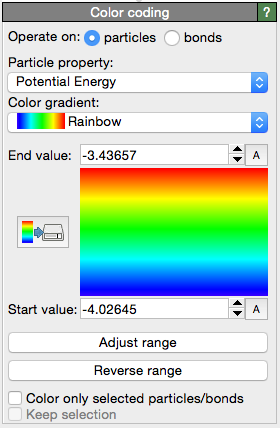
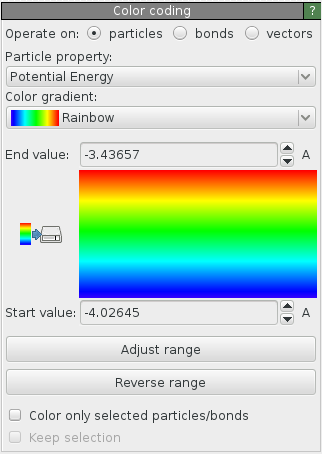
Extended the Color Coding modifier to support the coloring of vector arrows (in addition to particles and bonds).

diff --git a/src/plugins/particles/modifier/coloring/ColorCodingModifier.cpp b/src/plugins/particles/modifier/coloring/ColorCodingModifier.cpp
@@ -39,7 +39,7 @@ DEFINE_PROPERTY_FIELD(ColorCodingModifier, _colorOnlySelected, "SelectedOnly");
 DEFINE_PROPERTY_FIELD(ColorCodingModifier, _keepSelection, "KeepSelection");
 DEFINE_PROPERTY_FIELD(ColorCodingModifier, _sourceParticleProperty, "SourceProperty");
 DEFINE_PROPERTY_FIELD(ColorCodingModifier, _sourceBondProperty, "SourceBondProperty");
-DEFINE_PROPERTY_FIELD(ColorCodingModifier, _operateOnBonds, "OperateOnBonds");
+DEFINE_PROPERTY_FIELD(ColorCodingModifier, _colorApplicationMode, "ColorApplicationMode");
 SET_PROPERTY_FIELD_LABEL(ColorCodingModifier, _startValueCtrl, "Start value");
 SET_PROPERTY_FIELD_LABEL(ColorCodingModifier, _endValueCtrl, "End value");
 SET_PROPERTY_FIELD_LABEL(ColorCodingModifier, _colorGradient, "Color gradient");
@@ -47,7 +47,7 @@ SET_PROPERTY_FIELD_LABEL(ColorCodingModifier, _colorOnlySelected, "Color only se
 SET_PROPERTY_FIELD_LABEL(ColorCodingModifier, _keepSelection, "Keep selection");
 SET_PROPERTY_FIELD_LABEL(ColorCodingModifier, _sourceParticleProperty, "Source property");
 SET_PROPERTY_FIELD_LABEL(ColorCodingModifier, _sourceBondProperty, "Source property");
-SET_PROPERTY_FIELD_LABEL(ColorCodingModifier, _operateOnBonds, "Operate on bonds");
+SET_PROPERTY_FIELD_LABEL(ColorCodingModifier, _colorApplicationMode, "Target");
 
 IMPLEMENT_SERIALIZABLE_OVITO_OBJECT(Particles, ColorCodingGradient, RefTarget);
 IMPLEMENT_SERIALIZABLE_OVITO_OBJECT(Particles, ColorCodingHSVGradient, ColorCodingGradient);
@@ -64,7 +64,7 @@ DEFINE_PROPERTY_FIELD(ColorCodingImageGradient, _image, "Image");
 * Constructs the modifier object.
 ******************************************************************************/
 ColorCodingModifier::ColorCodingModifier(DataSet* dataset) : ParticleModifier(dataset),
-	_colorOnlySelected(false), _keepSelection(false), _operateOnBonds(false)
+	_colorOnlySelected(false), _keepSelection(false), _colorApplicationMode(Particles)
 {
 	INIT_PROPERTY_FIELD(ColorCodingModifier::_startValueCtrl);
 	INIT_PROPERTY_FIELD(ColorCodingModifier::_endValueCtrl);
@@ -73,7 +73,7 @@ ColorCodingModifier::ColorCodingModifier(DataSet* dataset) : ParticleModifier(da
 	INIT_PROPERTY_FIELD(ColorCodingModifier::_keepSelection);
 	INIT_PROPERTY_FIELD(ColorCodingModifier::_sourceParticleProperty);
 	INIT_PROPERTY_FIELD(ColorCodingModifier::_sourceBondProperty);
-	INIT_PROPERTY_FIELD(ColorCodingModifier::_operateOnBonds);
+	INIT_PROPERTY_FIELD(ColorCodingModifier::_colorApplicationMode);
 
 	_colorGradient = new ColorCodingHSVGradient(dataset);
 	_startValueCtrl = ControllerManager::instance().createFloatController(dataset);
@@ -168,7 +168,7 @@ PipelineStatus ColorCodingModifier::modifyParticles(TimePoint time, TimeInterval
 	PropertyBase* colorProperty;
 	DataObject* selectionPropertyObj = nullptr;
 	int vecComponent;
-	if(!operateOnBonds()) {
+	if(colorApplicationMode() != ColorCodingModifier::Bonds) {
 		if(sourceParticleProperty().isNull())
 			throwException(tr("Select a particle property first."));
 		ParticlePropertyObject* propertyObj = sourceParticleProperty().findInState(input());
@@ -188,7 +188,11 @@ PipelineStatus ColorCodingModifier::modifyParticles(TimePoint time, TimeInterval
 		}
 
 		// Create the color output property.
-		ParticlePropertyObject* colorPropertyObj = outputStandardProperty(ParticleProperty::ColorProperty);
+		ParticlePropertyObject* colorPropertyObj;
+		if(colorApplicationMode() == Particles)
+			colorPropertyObj = outputStandardProperty(ParticleProperty::ColorProperty);
+		else
+			colorPropertyObj = outputStandardProperty(ParticleProperty::VectorColorProperty);
 		colorProperty = colorPropertyObj->modifiableStorage();
 	}
 	else {
@@ -230,7 +234,7 @@ PipelineStatus ColorCodingModifier::modifyParticles(TimePoint time, TimeInterval
 	std::vector<Color> existingColors;
 	if(selProperty) {
 		sel = selProperty->constDataInt();
-		if(!operateOnBonds())
+		if(colorApplicationMode() != ColorCodingModifier::Bonds)
 			existingColors = inputParticleColors(time, validityInterval);
 		else
 			existingColors = inputBondColors(time, validityInterval);
@@ -302,9 +306,11 @@ PipelineStatus ColorCodingModifier::modifyParticles(TimePoint time, TimeInterval
 		output().removeObject(selectionPropertyObj);
 	}
 
-	if(!operateOnBonds())
+	if(colorApplicationMode() == ColorCodingModifier::Particles)
 		outputStandardProperty(ParticleProperty::ColorProperty)->changed();
-	else
+	else if(colorApplicationMode() == ColorCodingModifier::Vectors)
+		outputStandardProperty(ParticleProperty::VectorColorProperty)->changed();
+	else if(colorApplicationMode() == ColorCodingModifier::Bonds)
 		outputStandardBondProperty(BondProperty::ColorProperty)->changed();
 
 	return PipelineStatus::Success;
@@ -322,7 +328,7 @@ bool ColorCodingModifier::adjustRange()
 	PipelineFlowState inputState = getModifierInput();
 	PropertyBase* property;
 	int vecComponent;
-	if(!operateOnBonds()) {
+	if(colorApplicationMode() != ColorCodingModifier::Bonds) {
 		ParticlePropertyObject* propertyObj = sourceParticleProperty().findInState(inputState);
 		if(!propertyObj)
 			return false;
@@ -399,6 +405,23 @@ void ColorCodingModifier::loadFromStream(ObjectLoadStream& stream)
 		setSourceParticleProperty(pref);
 	}
 	stream.closeChunk();
+}
+
+/******************************************************************************
+* Parses the serialized contents of a property field in a custom way.
+******************************************************************************/
+bool ColorCodingModifier::loadPropertyFieldFromStream(ObjectLoadStream& stream, const ObjectLoadStream::SerializedPropertyField& serializedField)
+{
+	// This is for backward compatibility with OVITO 2.7.1.
+	if(serializedField.identifier == "OperateOnBonds" && serializedField.definingClass == &ColorCodingModifier::OOType) {
+		bool operateOnBonds;
+		stream >> operateOnBonds;
+		if(operateOnBonds)
+			setColorApplicationMode(Bonds);
+		return true;
+	}
+
+	return ParticleModifier::loadPropertyFieldFromStream(stream, serializedField);
 }
 
 /******************************************************************************

diff --git a/src/plugins/particles/scripting/ModifierBinding.cpp b/src/plugins/particles/scripting/ModifierBinding.cpp
@@ -94,7 +94,7 @@ BOOST_PYTHON_MODULE(ParticlesModify)
 	{
 		scope s = ovito_class<ColorCodingModifier, ParticleModifier>(
 				":Base class: :py:class:`ovito.modifiers.Modifier`\n\n"
-				"Colors particles or bonds based on the value of a property."
+				"Colors particles, bonds, or vectors based on the value of a property."
 				"\n\n"
 				"Usage example::"
 				"\n\n"
@@ -115,12 +115,12 @@ BOOST_PYTHON_MODULE(ParticlesModify)
 					"This can be one of the :ref:`standard particle properties <particle-types-list>` or a custom particle property. "
 					"When using vector properties the component must be included in the name, e.g. ``\"Velocity.X\"``. "
 					"\n\n"
-					"This field is only used if :py:attr:`.bond_mode` is set to false. ")
+					"This field is only used if :py:attr:`.bond_mode` is not set to ``Bonds``. ")
 			.add_property("bond_property", make_function(&ColorCodingModifier::sourceBondProperty, return_value_policy<copy_const_reference>()), &ColorCodingModifier::setSourceBondProperty,
 					"The name of the input bond property that should be used to color bonds. "
 					"This can be one of the :ref:`standard bond properties <bond-types-list>` or a custom bond property. "
 					"\n\n"
-					"This field is only used if :py:attr:`.bond_mode` is set to true. ")
+					"This field is only used if :py:attr:`.assign_to` is set to ``Bonds``. ")
 			.add_property("start_value", &ColorCodingModifier::startValue, &ColorCodingModifier::setStartValue,
 					"This parameter defines the value range when mapping the input property to a color.")
 			.add_property("startValueController", make_function(&ColorCodingModifier::startValueController, return_value_policy<ovito_object_reference>()), &ColorCodingModifier::setStartValueController)
@@ -147,13 +147,23 @@ BOOST_PYTHON_MODULE(ParticlesModify)
 					"\n\n"
 					":Default: ``False``\n")
 			.add_property("keepSelection", &ColorCodingModifier::keepSelection, &ColorCodingModifier::setKeepSelection)
-			.add_property("bond_mode", &ColorCodingModifier::operateOnBonds, &ColorCodingModifier::setOperateOnBonds,
-					"Controls whether the modifier assigns colors to particles or bonds.\n"
+			.add_property("assign_to", &ColorCodingModifier::colorApplicationMode, &ColorCodingModifier::setColorApplicationMode,
+					"Determines what the modifier assigns the colors to.\n"
+					"This must be one of the following constants:\n"
+					" * ``ColorCodingModifier.AssignmentMode.Particles``\n"
+					" * ``ColorCodingModifier.AssignmentMode.Bonds``\n"
+					" * ``ColorCodingModifier.AssignmentMode.Vectors``\n"
 					"\n\n"
-					"If this is set to true, then the bond property selected by :py:attr:`.bond_property` is used to color bonds. "
-					"Otherwise the particle property selected by :py:attr:`.particle_property` is used to color particles."
+					"If this attribute is set to ``Bonds``, then the bond property selected by :py:attr:`.bond_property` is used to color bonds. "
+					"Otherwise the particle property selected by :py:attr:`.particle_property` is used to color particles or vectors. "
 					"\n\n"
-					":Default: ``False``\n")
+					":Default: ``ColorCodingModifier.AssignmentMode.Particles``\n")
+		;
+
+		enum_<ColorCodingModifier::ColorApplicationMode>("AssignmentMode")
+			.value("Particles", ColorCodingModifier::Particles)
+			.value("Bonds", ColorCodingModifier::Bonds)
+			.value("Vectors", ColorCodingModifier::Vectors)
 		;
 
 		ovito_abstract_class<ColorCodingGradient, RefTarget>()

diff --git a/src/plugins/particles/modifier/coloring/ColorCodingModifier.h b/src/plugins/particles/modifier/coloring/ColorCodingModifier.h
@@ -281,6 +281,16 @@ class OVITO_PARTICLES_EXPORT ColorCodingModifier : public ParticleModifier
 {
 public:
 
+	/// The modes supported by the color coding modifier.
+	enum ColorApplicationMode {
+		Particles,	//< Colors are assigned to particles
+		Bonds,		//< Colors are assigned to bonds
+		Vectors		//< Colors are assigned to vector arrows
+	};
+	Q_ENUMS(ColorApplicationMode);
+
+public:
+
 	/// Constructor.
 	Q_INVOKABLE ColorCodingModifier(DataSet* dataset);
 
@@ -345,11 +355,11 @@ public:
 	/// Sets whether the input particle selection should be preserved by the modifier.
 	void setKeepSelection(bool keepSel) { _keepSelection = keepSel; }
 
-	/// Returns whether the modifier operates on bonds instead of particles.
-	bool operateOnBonds() const { return _operateOnBonds; }
+	/// Returns what is being assigned colors by the modifier.
+	ColorApplicationMode colorApplicationMode() const { return _colorApplicationMode; }
 
-	/// Sets whether the modifier operates on bonds instead of particles.
-	void setOperateOnBonds(bool bondMode) { _operateOnBonds = bondMode; }
+	/// Sets what is being assigned colors by the modifier.
+	void setColorApplicationMode(ColorApplicationMode mode) { _colorApplicationMode = mode; }
 
 public Q_SLOTS:
 
@@ -363,6 +373,9 @@ protected:
 
 	/// Loads the class' contents from the given stream.
 	virtual void loadFromStream(ObjectLoadStream& stream) override;
+
+	/// Parses the serialized contents of a property field in a custom way.
+	virtual bool loadPropertyFieldFromStream(ObjectLoadStream& stream, const ObjectLoadStream::SerializedPropertyField& serializedField) override;
 
 	/// This virtual method is called by the system when the modifier has been inserted into a PipelineObject.
 	virtual void initializeModifier(PipelineObject* pipelineObject, ModifierApplication* modApp) override;
@@ -392,8 +405,8 @@ protected:
 	/// If false, the selection is cleared by the modifier.
 	PropertyField<bool> _keepSelection;
 
-	/// Controls whether the modifier operates on bonds instead of particles.
-	PropertyField<bool> _operateOnBonds;
+	/// Controls what is being assigned colors by the modifier.
+	PropertyField<ColorApplicationMode, int> _colorApplicationMode;
 
 private:
 
@@ -410,12 +423,15 @@ private:
 	DECLARE_PROPERTY_FIELD(_keepSelection);
 	DECLARE_PROPERTY_FIELD(_sourceParticleProperty);
 	DECLARE_PROPERTY_FIELD(_sourceBondProperty);
-	DECLARE_PROPERTY_FIELD(_operateOnBonds);
+	DECLARE_PROPERTY_FIELD(_colorApplicationMode);
 };
 
 OVITO_END_INLINE_NAMESPACE
 OVITO_END_INLINE_NAMESPACE
 }	// End of namespace
 }	// End of namespace
+
+Q_DECLARE_METATYPE(Ovito::Particles::ColorCodingModifier::ColorApplicationMode);
+Q_DECLARE_TYPEINFO(Ovito::Particles::ColorCodingModifier::ColorApplicationMode, Q_PRIMITIVE_TYPE);
 
 #endif // __OVITO_COLOR_CODING_MODIFIER_H

diff --git a/src/plugins/particles/gui/modifier/coloring/ColorCodingModifierEditor.cpp b/src/plugins/particles/gui/modifier/coloring/ColorCodingModifierEditor.cpp
@@ -30,7 +30,7 @@
 #include <gui/properties/ColorParameterUI.h>
 #include <gui/properties/BooleanParameterUI.h>
 #include <gui/properties/CustomParameterUI.h>
-#include <gui/properties/BooleanRadioButtonParameterUI.h>
+#include <gui/properties/IntegerRadioButtonParameterUI.h>
 #include <gui/dialogs/SaveImageFileDialog.h>
 #include <core/plugins/PluginManager.h>
 #include "ColorCodingModifierEditor.h"
@@ -57,11 +57,13 @@ void ColorCodingModifierEditor::createUI(const RolloutInsertionParameters& rollo
 	layout3->setContentsMargins(0,0,0,0);
 	layout3->setSpacing(4);
 	layout3->addWidget(new QLabel(tr("Operate on:")));
-	BooleanRadioButtonParameterUI* operateOnBondsUI = new BooleanRadioButtonParameterUI(this, PROPERTY_FIELD(ColorCodingModifier::_operateOnBonds));
-	operateOnBondsUI->buttonFalse()->setText(tr("particles"));
-	operateOnBondsUI->buttonTrue()->setText(tr("bonds"));
-	layout3->addWidget(operateOnBondsUI->buttonFalse());
-	layout3->addWidget(operateOnBondsUI->buttonTrue());
+	IntegerRadioButtonParameterUI* modeUI = new IntegerRadioButtonParameterUI(this, PROPERTY_FIELD(ColorCodingModifier::_colorApplicationMode));
+	QRadioButton* particlesModeBtn = modeUI->addRadioButton(ColorCodingModifier::Particles, tr("particles"));
+	QRadioButton* bondsModeBtn = modeUI->addRadioButton(ColorCodingModifier::Bonds, tr("bonds"));
+	QRadioButton* vectorsModeBtn = modeUI->addRadioButton(ColorCodingModifier::Vectors, tr("vectors"));
+	layout3->addWidget(particlesModeBtn);
+	layout3->addWidget(bondsModeBtn);
+	layout3->addWidget(vectorsModeBtn);
 	layout3->addStretch(1);
 	layout1->addLayout(layout3);
 	layout1->addSpacing(4);
@@ -79,10 +81,11 @@ void ColorCodingModifierEditor::createUI(const RolloutInsertionParameters& rollo
 	bondPropertyLabel->hide();
 	sourceBondPropertyUI->comboBox()->hide();
 
-	connect(operateOnBondsUI->buttonFalse(), &QRadioButton::toggled, sourceParticlePropertyUI->comboBox(), &QWidget::setVisible);
-	connect(operateOnBondsUI->buttonFalse(), &QRadioButton::toggled, particlePropertyLabel, &QWidget::setVisible);
-	connect(operateOnBondsUI->buttonTrue(), &QRadioButton::toggled, sourceBondPropertyUI->comboBox(), &QWidget::setVisible);
-	connect(operateOnBondsUI->buttonTrue(), &QRadioButton::toggled, bondPropertyLabel, &QWidget::setVisible);
+	bondsModeBtn->setChecked(true);
+	connect(bondsModeBtn, &QRadioButton::toggled, sourceParticlePropertyUI->comboBox(), &QWidget::setHidden);
+	connect(bondsModeBtn, &QRadioButton::toggled, particlePropertyLabel, &QWidget::setHidden);
+	connect(bondsModeBtn, &QRadioButton::toggled, sourceBondPropertyUI->comboBox(), &QWidget::setVisible);
+	connect(bondsModeBtn, &QRadioButton::toggled, bondPropertyLabel, &QWidget::setVisible);
 
 	colorGradientList = new QComboBox(rollout);
 	layout1->addWidget(new QLabel(tr("Color gradient:")));

diff --git a/src/plugins/particles/gui/modifier/coloring/ColorLegendOverlayEditor.cpp b/src/plugins/particles/gui/modifier/coloring/ColorLegendOverlayEditor.cpp
@@ -78,7 +78,7 @@ void ColorLegendOverlayEditor::createUI(const RolloutInsertionParameters& rollou
 						if(PipelineObject* pipeline = dynamic_object_cast<PipelineObject>(obj)) {
 							for(ModifierApplication* modApp : pipeline->modifierApplications()) {
 								if(ColorCodingModifier* mod = dynamic_object_cast<ColorCodingModifier>(modApp->modifier())) {
-									if(!mod->operateOnBonds())
+									if(mod->colorApplicationMode() != ColorCodingModifier::Bonds)
 										addItem(mod->sourceParticleProperty().nameWithComponent(), QVariant::fromValue(mod));
 									else
 										addItem(mod->sourceBondProperty().nameWithComponent(), QVariant::fromValue(mod));
@@ -106,7 +106,7 @@ void ColorLegendOverlayEditor::createUI(const RolloutInsertionParameters& rollou
 				modifierComboBox->clear();
 				ColorCodingModifier* mod = dynamic_object_cast<ColorCodingModifier>(value.value<ColorCodingModifier*>());
 				if(mod) {
-					if(!mod->operateOnBonds())
+					if(mod->colorApplicationMode() != ColorCodingModifier::Bonds)
 						modifierComboBox->addItem(mod->sourceParticleProperty().nameWithComponent(), QVariant::fromValue(mod));
 					else
 						modifierComboBox->addItem(mod->sourceBondProperty().nameWithComponent(), QVariant::fromValue(mod));

diff --git a/tests/scripts/test_suite/color_coding_modifier.py b/tests/scripts/test_suite/color_coding_modifier.py
@@ -15,7 +15,7 @@ print("  start_value: {}".format(modifier.start_value))
 print("  end_value: {}".format(modifier.end_value))
 print("  gradient: {}".format(modifier.gradient))
 print("  only_selected: {}".format(modifier.only_selected))
-print("  bond_mode: {}".format(modifier.bond_mode))
+print("  assign_to: {}".format(modifier.assign_to))
 print("  particle_property: {}".format(modifier.particle_property))
 print("  bond_property: {}".format(modifier.bond_property))
 

diff --git a/src/plugins/particles/modifier/coloring/ColorLegendOverlay.cpp b/src/plugins/particles/modifier/coloring/ColorLegendOverlay.cpp
@@ -182,7 +182,7 @@ void ColorLegendOverlay::render(Viewport* viewport, QPainter& painter, const Vie
 	else
 		bottomLabel = label2();
 	if(title().isEmpty()) {
-		if(!modifier()->operateOnBonds())
+		if(modifier()->colorApplicationMode() != ColorCodingModifier::Bonds)
 			titleLabel = modifier()->sourceParticleProperty().nameWithComponent();
 		else
 			titleLabel = modifier()->sourceBondProperty().nameWithComponent();

diff --git a/src/plugins/particles/objects/VectorDisplay.cpp b/src/plugins/particles/objects/VectorDisplay.cpp
@@ -233,7 +233,7 @@ bool VectorDisplay::loadPropertyFieldFromStream(ObjectLoadStream& stream, const 
 		return true;
 	}
 
-	return false;
+	return DisplayObject::loadPropertyFieldFromStream(stream, serializedField);
 }
 
 /******************************************************************************
